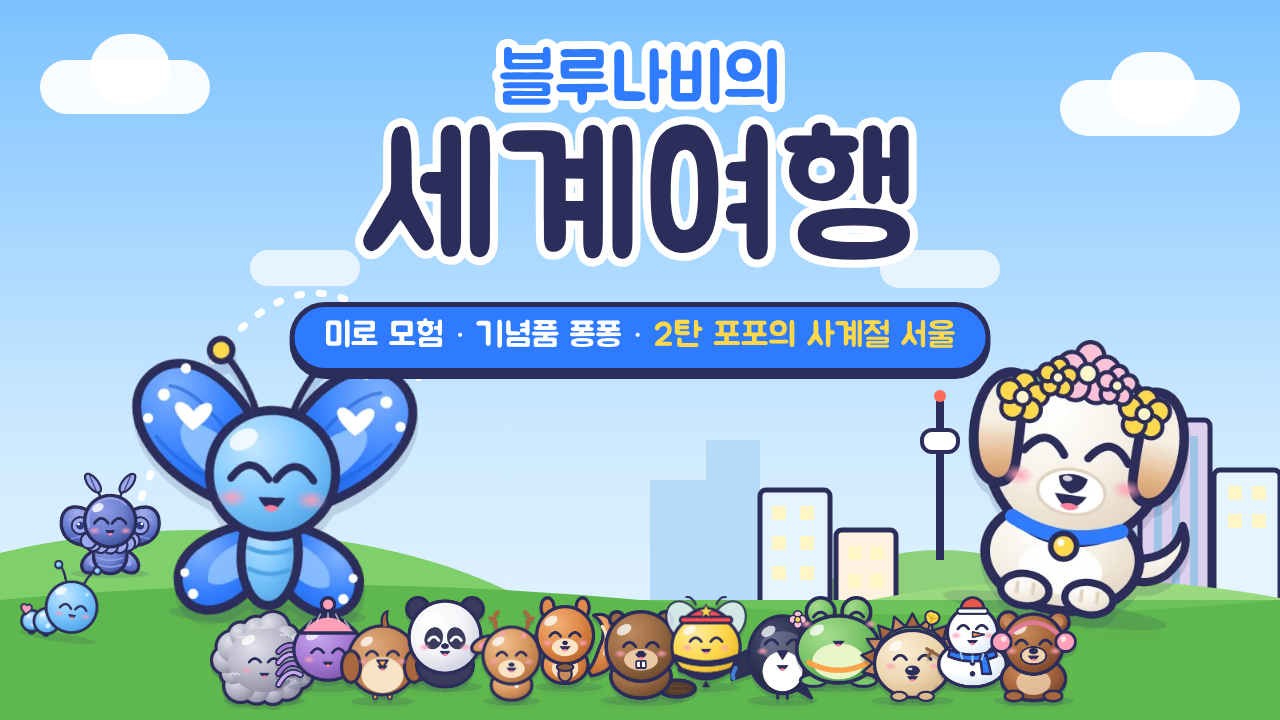
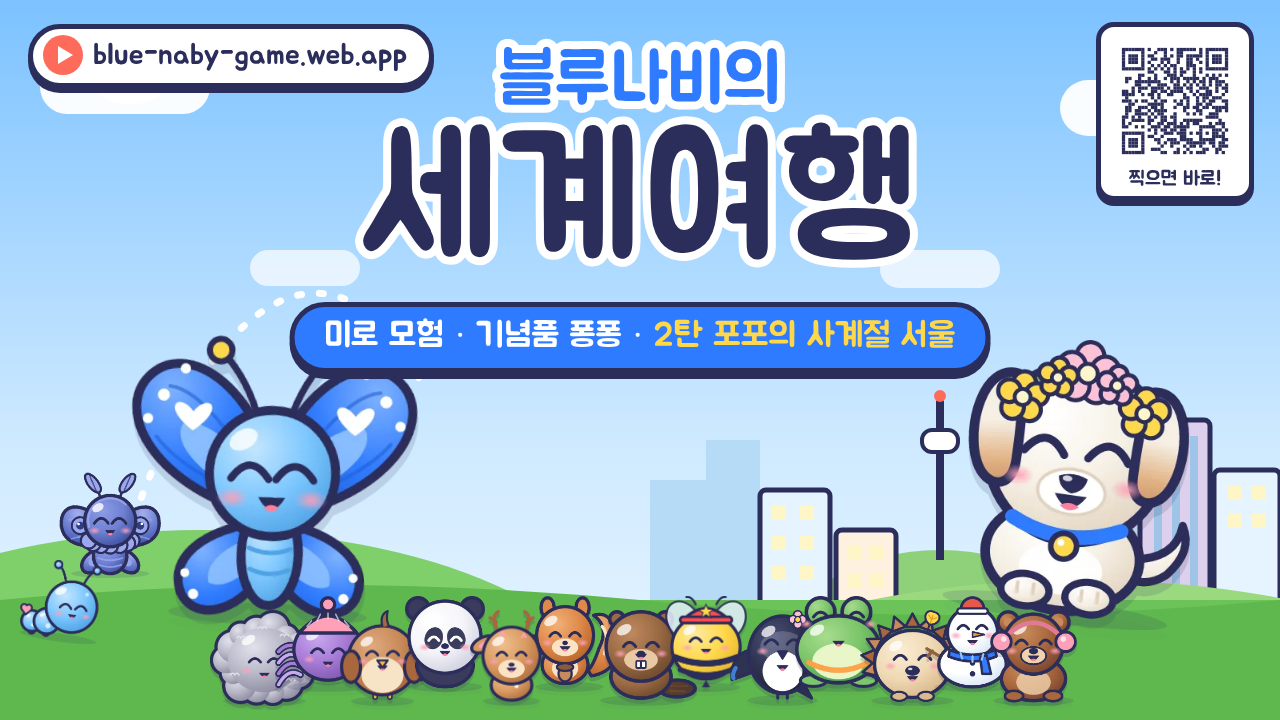
카카오톡 미리보기 그림을 썸네일로(og-image-v2), 썸네일에 게임 주소·QR·링크 페이지
Claude-Session: https://claude.ai/code/session_01TkNv9721uSkR9vMBe25YwV

Changed region(s): [[0.8438, 0.0306, 1.0, 0.3056], [0.0, 0.0306, 0.3438, 0.1528]]

diff --git a/art/thumbnail/thumbnail.html b/art/thumbnail/thumbnail.html
@@ -1,0 +1,69 @@
+<!doctype html><html><head><meta charset="utf-8"><style>
+@font-face{font-family:Jua;src:url(../../public/fonts/Jua-subset.woff2)}
+@font-face{font-family:Gowun;src:url(../../public/fonts/GowunDodum-subset.woff2)}
+*{margin:0;box-sizing:border-box}
+body{--dy:0px;width:1280px;height:720px;overflow:hidden;position:relative;background:linear-gradient(#7cc2ff,#cfeaff 62%,#eaf6ff)}
+.abs{position:absolute}
+.cloud{position:absolute;background:#fff;border-radius:999px;opacity:.95}
+.title{position:absolute;left:0;right:0;top:46px;text-align:center;font-family:Jua;color:#2b2d5a;paint-order:stroke fill;-webkit-text-stroke:16px #fff;line-height:1}
+.t1{font-size:70px;color:#2f7bff}
+.t2{font-size:168px;margin-top:4px;letter-spacing:2px}
+.pill{position:absolute;left:50%;transform:translateX(-50%);top:302px;font-family:Jua;font-size:34px;color:#fff;background:#2f7bff;border:5px solid #2b2d5a;border-radius:999px;padding:8px 30px 10px;white-space:nowrap;box-shadow:0 6px 0 #2b2d5a}
+.pill b{color:#ffd84a;font-weight:normal}
+img{position:absolute}
+.f{height:96px;bottom:20px;filter:drop-shadow(0 4px 0 rgba(43,45,90,.18))}
+body.og{--dy:48px;height:672px}
+body.og .qr{display:none}
+.title{top:calc(46px - var(--dy) * .45)}
+.pill{top:calc(302px - var(--dy) * .6)}
+.dy{transform:translateY(calc(-1 * var(--dy)))}
+.link{position:absolute;left:28px;top:24px;display:flex;align-items:center;gap:10px;font-family:Jua;font-size:30px;color:#2b2d5a;background:#fff;border:5px solid #2b2d5a;border-radius:999px;padding:6px 22px 8px 10px;box-shadow:0 5px 0 #2b2d5a}
+.link i{display:block;width:40px;height:40px;border-radius:50%;background:#ff6b5b;position:relative}
+.link i:after{content:'';position:absolute;left:15px;top:11px;border-left:15px solid #fff;border-top:9px solid transparent;border-bottom:9px solid transparent}
+.qr{position:absolute;right:26px;top:22px;background:#fff;border:5px solid #2b2d5a;border-radius:18px;padding:8px 8px 4px;text-align:center;font-family:Jua;font-size:20px;color:#2b2d5a;box-shadow:0 5px 0 #2b2d5a}
+.qr img{position:static;display:block;width:132px;height:132px}
+</style></head><body class="">
+<script>if(location.hash==='#og')document.body.className='og'</script>
+<!-- 구름 -->
+<div class="cloud" style="left:40px;top:60px;width:170px;height:54px"></div><div class="cloud" style="left:90px;top:34px;width:80px;height:70px"></div>
+<div class="cloud" style="left:1060px;top:80px;width:180px;height:56px"></div><div class="cloud" style="left:1110px;top:52px;width:86px;height:72px"></div>
+<div class="cloud" style="left:880px;top:250px;width:120px;height:38px;opacity:.7"></div><div class="cloud" style="left:250px;top:250px;width:110px;height:36px;opacity:.7"></div>
+<!-- 날아온 길 (점선) -->
+<svg class="abs dy" style="left:0;top:0" width="1280" height="720"><path d="M120 560 C 200 300, 330 210, 420 380" fill="none" stroke="#fff" stroke-width="7" stroke-dasharray="4 18" stroke-linecap="round"/></svg>
+<!-- 오른쪽: 서울 빌딩 숲 + 남산 타워 -->
+<svg class="abs dy" style="left:640px;top:360px" width="460" height="300">
+ <g fill="#b5dbf7"><rect x="10" y="120" width="60" height="180"/><rect x="66" y="80" width="54" height="220"/><rect x="380" y="100" width="70" height="200"/></g>
+ <ellipse cx="300" cy="300" rx="160" ry="110" fill="#8fd07a"/>
+ <rect x="296" y="40" width="8" height="160" fill="#2b2d5a"/><rect x="282" y="70" width="36" height="22" rx="10" fill="#fff" stroke="#2b2d5a" stroke-width="4"/><circle cx="300" cy="36" r="6" fill="#ff6b5b"/>
+ <g stroke="#2b2d5a" stroke-width="5">
+  <rect x="120" y="130" width="70" height="170" rx="6" fill="#e6f4ff"/><rect x="196" y="170" width="60" height="130" rx="6" fill="#fff1e0"/><rect x="380" y="160" width="76" height="140" rx="6" fill="#d6f0e6"/>
+ </g>
+ <g fill="#fff6c8"><rect x="132" y="146" width="14" height="14"/><rect x="160" y="146" width="14" height="14"/><rect x="132" y="176" width="14" height="14"/><rect x="160" y="176" width="14" height="14"/><rect x="132" y="206" width="14" height="14"/><rect x="160" y="206" width="14" height="14"/><rect x="208" y="186" width="14" height="14"/><rect x="230" y="186" width="14" height="14"/><rect x="208" y="214" width="14" height="14"/><rect x="230" y="214" width="14" height="14"/><rect x="394" y="176" width="14" height="14"/><rect x="424" y="176" width="14" height="14"/><rect x="394" y="206" width="14" height="14"/><rect x="424" y="206" width="14" height="14"/></g>
+</svg>
+<svg class="abs dy" style="left:1130px;top:380px" width="150" height="260"><g stroke="#2b2d5a" stroke-width="5"><rect x="10" y="40" width="70" height="230" rx="6" fill="#dcd0ec"/><rect x="84" y="90" width="66" height="180" rx="6" fill="#e6f4ff"/></g><g fill="#9fc4e8"><rect x="24" y="56" width="8" height="190"/><rect x="42" y="56" width="8" height="190"/><rect x="60" y="56" width="8" height="190"/></g><g fill="#fff6c8"><rect x="98" y="106" width="14" height="14"/><rect x="122" y="106" width="14" height="14"/><rect x="98" y="134" width="14" height="14"/><rect x="122" y="134" width="14" height="14"/></g></svg>
+<!-- 왼쪽: 튤립 꽃밭 언덕 -->
+<svg class="abs dy" style="left:0;top:0" width="1280" height="720">
+ <ellipse cx="200" cy="720" rx="420" ry="190" fill="#7fcf6a"/>
+ <ellipse cx="1080" cy="730" rx="420" ry="150" fill="#9ad97e"/>
+ <rect x="0" y="600" width="1280" height="120" fill="#6cc35a"/>
+ <path d="M0 600 Q 320 570 640 600 T 1280 600 V 720 H 0Z" fill="#5fb84e"/>
+</svg>
+<!-- 주인공 -->
+<img class="dy" src="blue_moth.png" style="height:110px;left:60px;top:470px;rotate:-8deg">
+<img class="dy" src="blue_caterpillar.png" style="height:84px;left:20px;top:560px">
+<img class="dy" src="blue_butterfly.png" style="height:300px;left:140px;top:330px;rotate:-6deg;filter:drop-shadow(0 10px 0 rgba(43,45,90,.15))">
+<img class="dy" src="blue_popoSpring.png" style="height:290px;right:90px;top:340px;filter:drop-shadow(0 10px 0 rgba(43,45,90,.15))">
+<!-- 제목 -->
+<div class="title"><div class="t1">블루나비의</div><div class="t2">세계여행</div></div>
+<div class="pill">미로 모험 · 기념품 퐁퐁 · <b>2탄 포포의 사계절 서울</b></div>
+<!-- 게임 주소 (톡 하면 게임으로: 카카오 카드·thumbnail.html) -->
+<div class="link"><i></i>blue-naby-game.web.app</div>
+<div class="qr"><img src="qr.svg">찍으면 바로!</div>
+<!-- 친구들 -->
+<div id="friends"></div>
+<script>
+const fr=['dustmong','silsili','jjakjjak','bbangbbang','sappuni','dotori','damdam','buzzboss','kkakkak','gaegul','bamtol','mungchi','gomsil'];
+const w=1280, n=fr.length, gap=(780)/(n-1);
+fr.forEach((k,i)=>{const im=document.createElement('img');im.src='boss_'+k+'.png';im.className='f';im.style.left=(250+i*gap-40)+'px';im.style.bottom=(14+(i%2)*14)+'px';document.body.appendChild(im)});
+</script>
+</body></html>

diff --git a/docs/presentation/thumbnail.html b/docs/presentation/thumbnail.html
@@ -1,0 +1,14 @@
+<!doctype html>
+<html lang="ko"><head><meta charset="utf-8"><meta name="viewport" content="width=device-width,initial-scale=1">
+<title>블루나비의 세계여행</title>
+<style>
+:root{--bg:#cfeaff;--ink:#2b2d5a}
+@media (prefers-color-scheme:dark){:root{--bg:#1b1d3a;--ink:#eef3fa}}
+body{margin:0;min-height:100vh;display:flex;align-items:center;justify-content:center;background:var(--bg);padding:16px;box-sizing:border-box}
+a{display:block;max-width:1280px;width:100%;border-radius:20px;overflow:hidden;box-shadow:0 8px 0 rgba(43,45,90,.25)}
+img{display:block;width:100%;height:auto}
+</style></head>
+<body>
+<!-- 썸네일을 톡 하면 게임으로 -->
+<a href="https://blue-naby-game.web.app/" aria-label="블루나비의 세계여행 게임 하러 가기"><img src="thumbnail.png" alt="블루나비의 세계여행 — 톡 하면 게임 시작"></a>
+</body></html>

diff --git a/index.html b/index.html
@@ -18,7 +18,8 @@
     <meta property="og:site_name" content="블루나비의 세계여행" />
     <meta property="og:title" content="블루나비의 세계여행" />
     <meta property="og:description" content="설치 없이 링크로 바로! 블루나비와 함께 세계여행을 떠나요" />
-    <meta property="og:image" content="https://blue-naby-game.web.app/og-image.png" />
+    <meta property="og:image" content="https://blue-naby-game.web.app/og-image-v2.png" />
+    <meta property="og:image:alt" content="블루나비의 세계여행 — 블루나비·포포와 친구들" />
     <meta property="og:image:width" content="1200" />
     <meta property="og:image:height" content="630" />
     <meta property="og:url" content="https://blue-naby-game.web.app/" />

diff --git a/vite.config.js b/vite.config.js
@@ -31,7 +31,7 @@ export default defineConfig(({ mode }) => mode === 'single' ? single : {
     VitePWA({
       registerType: 'prompt', // 새 버전을 바로 적용하지 않고, 타이틀·여권에서 안내 후 새로고침
       injectRegister: false,
-      includeAssets: ['icons/favicon.svg', 'icons/favicon-32.png', 'icons/apple-touch-icon-180.png', 'og-image.png'],
+      includeAssets: ['icons/favicon.svg', 'icons/favicon-32.png', 'icons/apple-touch-icon-180.png'],
       manifest: {
         id: '/',
         name: '블루나비의 세계여행',

diff --git a/CLAUDE.md b/CLAUDE.md
@@ -223,6 +223,7 @@
 | 2026-11-06 | 친구가 생길 때마다 **빨리 달리는 자전거·방해물 없애는 도구 같은 아이템** | 15절 4)에 추가: 짹짹이 → 씽씽 자전거, 도토리대장 → 비눗방울 막대(방해물이 비눗방울에 싸여 날아감), 댐댐이 → 꿀 도시락(에너지 가득), 2탄도 같은 아이템. 아이템 줄 |
 | 2026-11-06 | 처음 화면을 **펼친 세계지도 안의 지구본 모형** 입구로, 1탄·2탄을 터치해서 들어가게 | 기획안 `docs/design-brief.md` 16절(새 Entry 씬, 지구본 위 1탄 나비 핀·2탄 발바닥 핀 + 이름표 카드, 톡 → 확대 → 타이틀, 타이틀엔 [◀ 지구본]) |
 | 2026-11-06 | 친구를 따로 대결로 사귀지 말고 **미로 안에서 놀고 마지막 출구에서 친구가 되게** | 답: 숨바꼭질 친구(세 번 찾기, 하트 3칸) / 1탄·2탄 모두. 턴제 대결 화면은 이야기에서 빠짐. 기획안 `docs/design-brief.md` 17절 |
+| 2026-11-10 | **카카오톡 미리보기 그림도 썸네일로**, 썸네일에 **게임 들어가는 링크** | 공유 그림 `public/og-image-v2.png`(1200×630, 이름을 바꿔 카카오 옛 그림 캐시 피함, 앱 저장 목록에서 뺌). 썸네일에 게임 주소 띠 + QR("찍으면 바로!", 읽기 확인), 톡 하면 게임으로 가는 `docs/presentation/thumbnail.html`. 원본 `art/thumbnail/thumbnail.html` → `node scripts/build-thumbnail.cjs`. 옛 공유 그림은 `art/og-image-old.png` |
 | 2026-11-10 | **게임해설도 없애** | v3.6.4: 남은 안내(guide) 줄 9개(프롤로그 조작 안내·나라/계절 도착 안내) 삭제, 빈 `*_intro` 키 삭제 → 도착하면 바로 미로(MazeScene은 대사가 있을 때만 띄움). 이제 대사에 해설·안내 없음 |
 | 2026-11-10 | **게임 썸네일** 하나 만들어 | `docs/presentation/thumbnail.png`(1920×1080)·`thumbnail-1280.png`(1280×720): 제목·블루나비 세 모습·포포·서울 빌딩과 타워·친구 13명, 소개 띠 "미로 모험 · 기념품 퐁퐁 · 2탄 포포의 사계절 서울" |
 | 2026-11-10 | **친구들별 안내 해설도 없애** | v3.6.3: 친구 만남(`*_boss*`)·친구 되기(`*_friend*`) 대사 속 안내(guide) 줄 11개 삭제. 처음 조작 안내·나라 도착 안내는 남김. 선물은 친구 되기 띠에 표시 |

diff --git a/PROGRESS.md b/PROGRESS.md
@@ -87,7 +87,7 @@
 - 홈 화면 설치(PWA, `vite-plugin-pwa` 1.3.0): 앱 이름 "블루나비", 꽉 찬 세로 화면, 오프라인 저장(한 번 받으면 인터넷 없이도), 아이콘(나비 블루나비, `npm run build:icons`)
 - 새 버전 안내 `src/pwa.js`: 새 버전을 받아 두었다가 타이틀·여권에서만 "새 버전이 있어요 [새로고침]" 띠 (플레이 중엔 갑자기 새로고침하지 않음)
 - 설치 안내: 1장을 깬 뒤 여권 오른쪽 위 [홈 화면에 추가], 설정 [홈 화면에 추가하기]. 안드로이드는 설치 창, 아이폰은 "공유 → 홈 화면에 추가" + 저장 코드 복사(아이폰은 기록이 따로라서). 카톡 안·홈 화면 앱에서는 숨김
-- 카카오톡 미리보기 카드: `og:*` 태그 + `public/og-image.png`(1200×630, 블루나비·꽃님·제목을 가운데 정사각형 안에)
+- 카카오톡 미리보기 카드: `og:*` 태그 + `public/og-image-v2.png`(1200×630, 2026-11-10~ 썸네일과 같은 그림, `node scripts/build-thumbnail.cjs`)
 - 카카오톡 등 인앱 브라우저: 타이틀 아래 초록 띠 "브라우저에서 열면 … 더 안전해요" [브라우저로 열기](카카오톡 외부 브라우저 열기 주소 → 안 되면 메뉴 안내·주소 복사) [닫기](다시 안 보임)
 - 의견 보내기: 설정·엔딩. `[블루나비 의견] 버전 / 어디까지 / 갤럭시 · 카카오톡 브라우저` 등이 채워진 글을 공유 창으로(안 되면 복사). 서버로 보내지 않음. 정리는 `FEEDBACK.md`
 - 설정 화면: 버튼을 두 개씩 나란히(저장 코드 복사·넣기 / 의견 보내기·만든 사람들)

diff --git a/CHANGELOG.md b/CHANGELOG.md
@@ -2,9 +2,10 @@
 
 친구들에게 새 버전을 알릴 때 이 글에서 3줄 요약을 만든다.
 
-## 3.6.4 — 게임 안내 없애기 (2026-11-10)
+## 3.6.4 — 게임 안내 없애기 · 새 미리보기 그림 (2026-11-10)
 - 1탄·2탄에 남아 있던 '안내' 줄(처음 조작 안내·나라/계절 도착 안내) 9줄을 모두 없앴어요
 - 나라·계절에 도착하면 대사 없이 바로 미로가 시작돼요. 처음 이야기는 도트(1탄)·블루나비(2탄)의 한마디만
+- 카카오톡·SNS 링크 미리보기 그림을 새 썸네일(블루나비·포포·친구 13명)로 바꿨어요
 - 미로를 시작하면 블루나비·포포 말풍선으로 "○○를 모으고 숨은 친구를 찾으면 출구가 열려!"가 잠깐 떠요(원래 있던 것)
 
 ## 3.6.3 — 친구 대사 속 안내 없애기 (2026-11-10)
